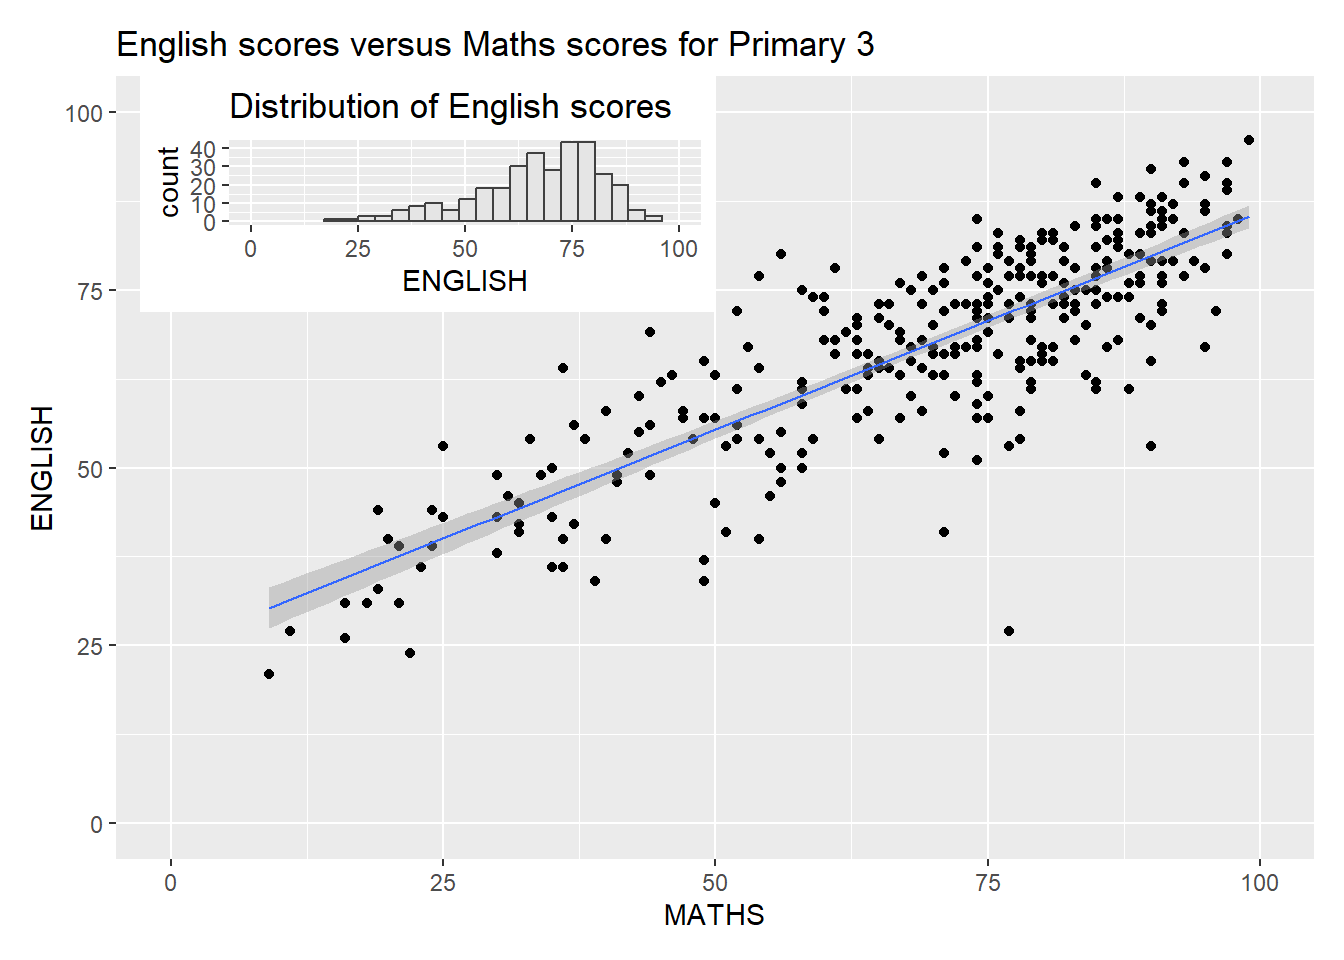
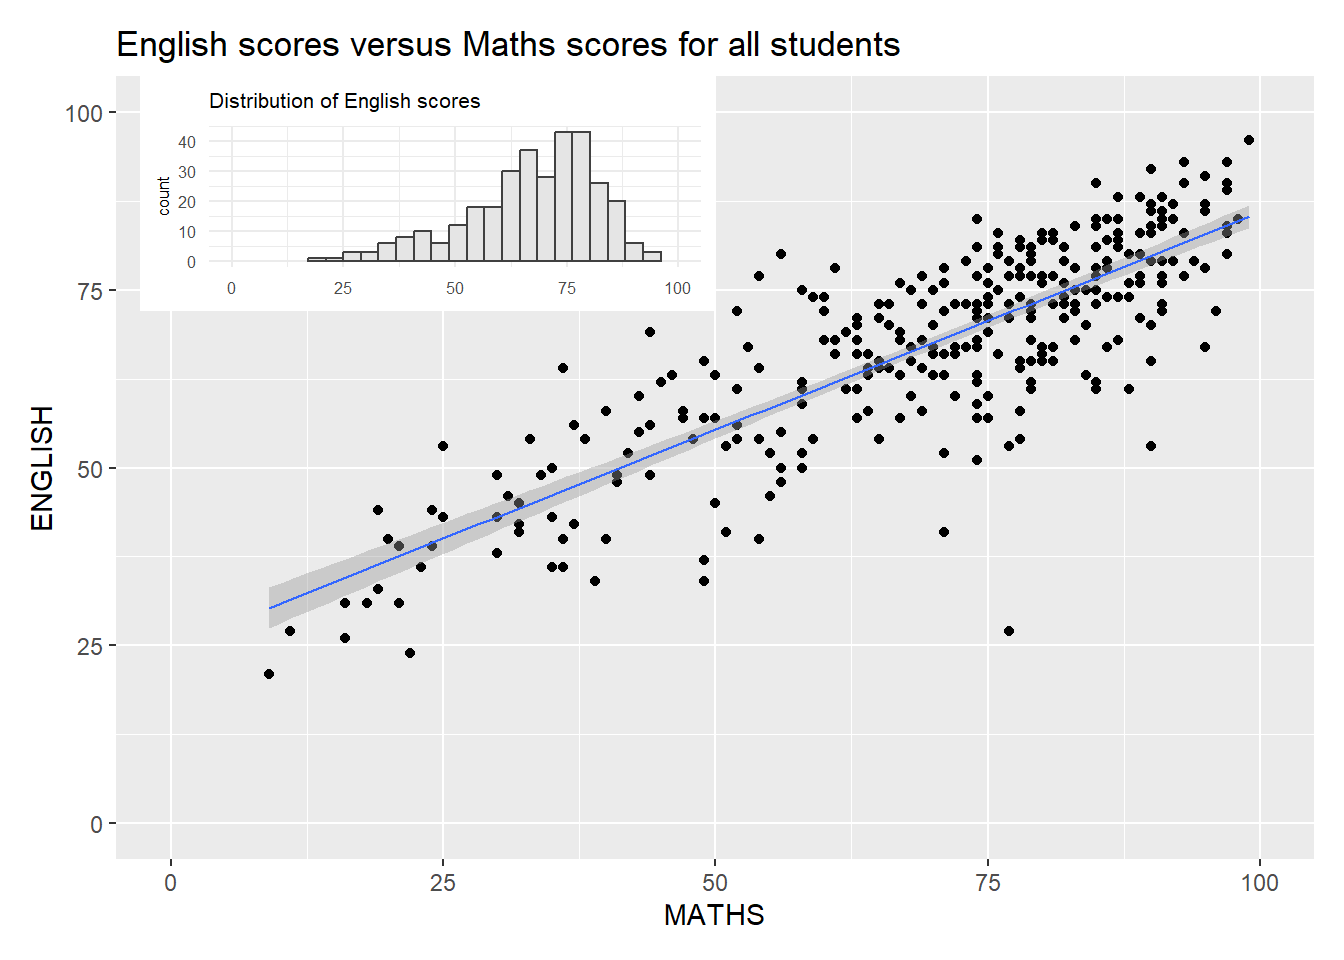
Commit updates to site

Changed region(s): [[0.1562, 0.0938, 0.5312, 0.3125], [0.0938, 0.125, 0.1875, 0.25], [0.5312, 0.0312, 0.6875, 0.0625]]

diff --git a/_site/Hands-on_Ex/Hands-on_Ex02/Hands-on_Ex02.html b/_site/Hands-on_Ex/Hands-on_Ex02/Hands-on_Ex02.html
@@ -246,7 +246,7 @@ pre > code.sourceCode > span > a:first-child::before { text-decoration: underlin
     <div>
     <div class="quarto-title-meta-heading">Modified</div>
     <div class="quarto-title-meta-contents">
-      <p class="date-modified">April 26, 2025</p>
+      <p class="date-modified">April 29, 2025</p>
     </div>
   </div>
     
@@ -437,7 +437,6 @@ pre > code.sourceCode > span > a:first-child::before { text-decoration: underlin
 </div>
 </div>
 </div>
-<p>Refer to this <a href="https://ggplot2.tidyverse.org/reference/index.html#themes">link</a> to learn more about ggplot2 <code>Themes</code></p>
 <section id="working-with-ggtheme-package" class="level3">
 <h3 class="anchored" data-anchor-id="working-with-ggtheme-package"><strong>2.4.1 Working with ggtheme package</strong></h3>
 <p><a href="https://cran.r-project.org/web/packages/ggthemes/index.html"><strong>ggthemes</strong></a> provides <a href="https://yutannihilation.github.io/allYourFigureAreBelongToUs/ggthemes/">‘ggplot2’ themes</a> that replicate the look of plots by Edward Tufte, Stephen Few, <a href="https://fivethirtyeight.com/">Fivethirtyeight</a>, <a href="https://www.economist.com/graphic-detail">The Economist</a>, ‘Stata’, ‘Excel’, and <a href="https://www.pinterest.com/wsjgraphics/wsj-graphics/">The Wall Street Journal</a>, among others.</p>
@@ -703,7 +702,19 @@ What can we learn from the code chunk above?
 </div>
 <div id="tabset-12-2" class="tab-pane" role="tabpanel" aria-labelledby="tabset-12-2-tab">
 <div class="cell">
-<div class="sourceCode cell-code" id="cb14"><pre class="sourceCode r code-with-copy"><code class="sourceCode r"><span id="cb14-1"><a href="#cb14-1" aria-hidden="true" tabindex="-1"></a>(p1 <span class="sc">/</span> p2) <span class="sc">|</span> p3</span></code><button title="Copy to Clipboard" class="code-copy-button"><i class="bi"></i></button></pre></div>
+<div class="sourceCode cell-code" id="cb14"><pre class="sourceCode r code-with-copy"><code class="sourceCode r"><span id="cb14-1"><a href="#cb14-1" aria-hidden="true" tabindex="-1"></a>p1 <span class="ot">&lt;-</span> p1 <span class="sc">+</span></span>
+<span id="cb14-2"><a href="#cb14-2" aria-hidden="true" tabindex="-1"></a>  <span class="fu">ggtitle</span>(<span class="fu">str_wrap</span>(<span class="st">"Distribution of Maths scores"</span>, <span class="at">width =</span> <span class="dv">30</span>)) <span class="sc">+</span></span>
+<span id="cb14-3"><a href="#cb14-3" aria-hidden="true" tabindex="-1"></a>  <span class="fu">theme_grey</span>()</span>
+<span id="cb14-4"><a href="#cb14-4" aria-hidden="true" tabindex="-1"></a></span>
+<span id="cb14-5"><a href="#cb14-5" aria-hidden="true" tabindex="-1"></a>p2 <span class="ot">&lt;-</span> p2 <span class="sc">+</span></span>
+<span id="cb14-6"><a href="#cb14-6" aria-hidden="true" tabindex="-1"></a>  <span class="fu">ggtitle</span>(<span class="fu">str_wrap</span>(<span class="st">"Distribution of English scores"</span>, <span class="at">width =</span> <span class="dv">30</span>)) <span class="sc">+</span></span>
+<span id="cb14-7"><a href="#cb14-7" aria-hidden="true" tabindex="-1"></a>  <span class="fu">theme_grey</span>()</span>
+<span id="cb14-8"><a href="#cb14-8" aria-hidden="true" tabindex="-1"></a></span>
+<span id="cb14-9"><a href="#cb14-9" aria-hidden="true" tabindex="-1"></a>p3 <span class="ot">&lt;-</span> p3 <span class="sc">+</span></span>
+<span id="cb14-10"><a href="#cb14-10" aria-hidden="true" tabindex="-1"></a>  <span class="fu">ggtitle</span>(<span class="fu">str_wrap</span>(<span class="st">"English scores versus Maths scores for all students"</span>, <span class="at">width =</span> <span class="dv">35</span>)) <span class="sc">+</span></span>
+<span id="cb14-11"><a href="#cb14-11" aria-hidden="true" tabindex="-1"></a>  <span class="fu">theme_grey</span>()</span>
+<span id="cb14-12"><a href="#cb14-12" aria-hidden="true" tabindex="-1"></a></span>
+<span id="cb14-13"><a href="#cb14-13" aria-hidden="true" tabindex="-1"></a>(p1 <span class="sc">/</span> p2) <span class="sc">|</span> p3</span></code><button title="Copy to Clipboard" class="code-copy-button"><i class="bi"></i></button></pre></div>
 </div>
 </div>
 </div>
@@ -725,7 +736,11 @@ What can we learn from the code chunk above?
 </div>
 <div id="tabset-13-2" class="tab-pane" role="tabpanel" aria-labelledby="tabset-13-2-tab">
 <div class="cell">
-<div class="sourceCode cell-code" id="cb15"><pre class="sourceCode r code-with-copy"><code class="sourceCode r"><span id="cb15-1"><a href="#cb15-1" aria-hidden="true" tabindex="-1"></a>(p1 <span class="sc">|</span> p2) <span class="sc">/</span> p3</span></code><button title="Copy to Clipboard" class="code-copy-button"><i class="bi"></i></button></pre></div>
+<div class="sourceCode cell-code" id="cb15"><pre class="sourceCode r code-with-copy"><code class="sourceCode r"><span id="cb15-1"><a href="#cb15-1" aria-hidden="true" tabindex="-1"></a>p3 <span class="ot">&lt;-</span> p3 <span class="sc">+</span></span>
+<span id="cb15-2"><a href="#cb15-2" aria-hidden="true" tabindex="-1"></a>  <span class="fu">ggtitle</span>(<span class="fu">str_wrap</span>(<span class="st">"English scores versus Maths scores for all students"</span>, <span class="at">width =</span> <span class="dv">60</span>)) <span class="sc">+</span></span>
+<span id="cb15-3"><a href="#cb15-3" aria-hidden="true" tabindex="-1"></a>  <span class="fu">theme_grey</span>()</span>
+<span id="cb15-4"><a href="#cb15-4" aria-hidden="true" tabindex="-1"></a></span>
+<span id="cb15-5"><a href="#cb15-5" aria-hidden="true" tabindex="-1"></a>(p1 <span class="sc">|</span> p2) <span class="sc">/</span> p3</span></code><button title="Copy to Clipboard" class="code-copy-button"><i class="bi"></i></button></pre></div>
 </div>
 </div>
 </div>
@@ -803,11 +818,23 @@ What can we learn from the code chunk above?
 </div>
 <div id="tabset-16-2" class="tab-pane" role="tabpanel" aria-labelledby="tabset-16-2-tab">
 <div class="cell">
-<div class="sourceCode cell-code" id="cb18"><pre class="sourceCode r code-with-copy"><code class="sourceCode r"><span id="cb18-1"><a href="#cb18-1" aria-hidden="true" tabindex="-1"></a>p3 <span class="sc">+</span> <span class="fu">inset_element</span>(p2, </span>
-<span id="cb18-2"><a href="#cb18-2" aria-hidden="true" tabindex="-1"></a>                   <span class="at">left =</span> <span class="fl">0.02</span>, </span>
-<span id="cb18-3"><a href="#cb18-3" aria-hidden="true" tabindex="-1"></a>                   <span class="at">bottom =</span> <span class="fl">0.7</span>, </span>
-<span id="cb18-4"><a href="#cb18-4" aria-hidden="true" tabindex="-1"></a>                   <span class="at">right =</span> <span class="fl">0.5</span>, </span>
-<span id="cb18-5"><a href="#cb18-5" aria-hidden="true" tabindex="-1"></a>                   <span class="at">top =</span> <span class="dv">1</span>)</span></code><button title="Copy to Clipboard" class="code-copy-button"><i class="bi"></i></button></pre></div>
+<div class="sourceCode cell-code" id="cb18"><pre class="sourceCode r code-with-copy"><code class="sourceCode r"><span id="cb18-1"><a href="#cb18-1" aria-hidden="true" tabindex="-1"></a>p2 <span class="ot">&lt;-</span> p2 <span class="sc">+</span></span>
+<span id="cb18-2"><a href="#cb18-2" aria-hidden="true" tabindex="-1"></a>  <span class="fu">theme_minimal</span>() <span class="sc">+</span></span>
+<span id="cb18-3"><a href="#cb18-3" aria-hidden="true" tabindex="-1"></a>  <span class="fu">theme</span>(</span>
+<span id="cb18-4"><a href="#cb18-4" aria-hidden="true" tabindex="-1"></a>    <span class="at">plot.title =</span> <span class="fu">element_text</span>(<span class="at">size =</span> <span class="dv">8</span>),</span>
+<span id="cb18-5"><a href="#cb18-5" aria-hidden="true" tabindex="-1"></a>    <span class="at">axis.title.x =</span> <span class="fu">element_blank</span>(),       </span>
+<span id="cb18-6"><a href="#cb18-6" aria-hidden="true" tabindex="-1"></a>    <span class="at">axis.title.y =</span> <span class="fu">element_text</span>(<span class="at">size =</span> <span class="dv">6</span>), </span>
+<span id="cb18-7"><a href="#cb18-7" aria-hidden="true" tabindex="-1"></a>    <span class="at">axis.text =</span> <span class="fu">element_text</span>(<span class="at">size =</span> <span class="dv">6</span>),</span>
+<span id="cb18-8"><a href="#cb18-8" aria-hidden="true" tabindex="-1"></a>    <span class="at">axis.ticks =</span> <span class="fu">element_blank</span>(),</span>
+<span id="cb18-9"><a href="#cb18-9" aria-hidden="true" tabindex="-1"></a>    <span class="at">panel.background =</span> <span class="fu">element_rect</span>(<span class="at">fill =</span> <span class="st">"white"</span>, <span class="at">color =</span> <span class="cn">NA</span>), </span>
+<span id="cb18-10"><a href="#cb18-10" aria-hidden="true" tabindex="-1"></a>    <span class="at">plot.background =</span> <span class="fu">element_rect</span>(<span class="at">fill =</span> <span class="st">"white"</span>, <span class="at">color =</span> <span class="cn">NA</span>)   </span>
+<span id="cb18-11"><a href="#cb18-11" aria-hidden="true" tabindex="-1"></a>  )</span>
+<span id="cb18-12"><a href="#cb18-12" aria-hidden="true" tabindex="-1"></a></span>
+<span id="cb18-13"><a href="#cb18-13" aria-hidden="true" tabindex="-1"></a>p3 <span class="sc">+</span> <span class="fu">inset_element</span>(p2, </span>
+<span id="cb18-14"><a href="#cb18-14" aria-hidden="true" tabindex="-1"></a>                   <span class="at">left =</span> <span class="fl">0.02</span>, </span>
+<span id="cb18-15"><a href="#cb18-15" aria-hidden="true" tabindex="-1"></a>                   <span class="at">bottom =</span> <span class="fl">0.7</span>, </span>
+<span id="cb18-16"><a href="#cb18-16" aria-hidden="true" tabindex="-1"></a>                   <span class="at">right =</span> <span class="fl">0.5</span>, </span>
+<span id="cb18-17"><a href="#cb18-17" aria-hidden="true" tabindex="-1"></a>                   <span class="at">top =</span> <span class="dv">1</span>)</span></code><button title="Copy to Clipboard" class="code-copy-button"><i class="bi"></i></button></pre></div>
 </div>
 </div>
 </div>
@@ -833,7 +860,7 @@ What can we learn from the code chunk above?
 <div id="tabset-17-2" class="tab-pane" role="tabpanel" aria-labelledby="tabset-17-2-tab">
 <div class="cell">
 <div class="sourceCode cell-code" id="cb19"><pre class="sourceCode r code-with-copy"><code class="sourceCode r"><span id="cb19-1"><a href="#cb19-1" aria-hidden="true" tabindex="-1"></a>p1 <span class="ot">&lt;-</span> p1 <span class="sc">+</span></span>
-<span id="cb19-2"><a href="#cb19-2" aria-hidden="true" tabindex="-1"></a>  <span class="fu">ggtitle</span>(<span class="fu">str_wrap</span>(<span class="st">"Distribution of Maths scores"</span>, <span class="at">width =</span> <span class="dv">25</span>)) <span class="sc">+</span></span>
+<span id="cb19-2"><a href="#cb19-2" aria-hidden="true" tabindex="-1"></a>  <span class="fu">ggtitle</span>(<span class="fu">str_wrap</span>(<span class="st">"Distribution of Maths scores"</span>, <span class="at">width =</span> <span class="dv">30</span>)) <span class="sc">+</span></span>
 <span id="cb19-3"><a href="#cb19-3" aria-hidden="true" tabindex="-1"></a>  <span class="fu">theme_economist</span>() <span class="sc">+</span></span>
 <span id="cb19-4"><a href="#cb19-4" aria-hidden="true" tabindex="-1"></a>  <span class="fu">theme</span>(</span>
 <span id="cb19-5"><a href="#cb19-5" aria-hidden="true" tabindex="-1"></a>    <span class="at">plot.margin =</span> <span class="fu">margin</span>(<span class="at">t =</span> <span class="dv">10</span>, <span class="at">b =</span> <span class="dv">10</span>),</span>
@@ -841,7 +868,7 @@ What can we learn from the code chunk above?
 <span id="cb19-7"><a href="#cb19-7" aria-hidden="true" tabindex="-1"></a>  )</span>
 <span id="cb19-8"><a href="#cb19-8" aria-hidden="true" tabindex="-1"></a></span>
 <span id="cb19-9"><a href="#cb19-9" aria-hidden="true" tabindex="-1"></a>p2 <span class="ot">&lt;-</span> p2 <span class="sc">+</span></span>
-<span id="cb19-10"><a href="#cb19-10" aria-hidden="true" tabindex="-1"></a>  <span class="fu">ggtitle</span>(<span class="fu">str_wrap</span>(<span class="st">"Distribution of English scores"</span>, <span class="at">width =</span> <span class="dv">25</span>)) <span class="sc">+</span></span>
+<span id="cb19-10"><a href="#cb19-10" aria-hidden="true" tabindex="-1"></a>  <span class="fu">ggtitle</span>(<span class="fu">str_wrap</span>(<span class="st">"Distribution of English scores"</span>, <span class="at">width =</span> <span class="dv">30</span>)) <span class="sc">+</span></span>
 <span id="cb19-11"><a href="#cb19-11" aria-hidden="true" tabindex="-1"></a>  <span class="fu">theme_economist</span>() <span class="sc">+</span></span>
 <span id="cb19-12"><a href="#cb19-12" aria-hidden="true" tabindex="-1"></a>  <span class="fu">theme</span>(</span>
 <span id="cb19-13"><a href="#cb19-13" aria-hidden="true" tabindex="-1"></a>    <span class="at">plot.margin =</span> <span class="fu">margin</span>(<span class="at">t =</span> <span class="dv">10</span>, <span class="at">b =</span> <span class="dv">10</span>),</span>
